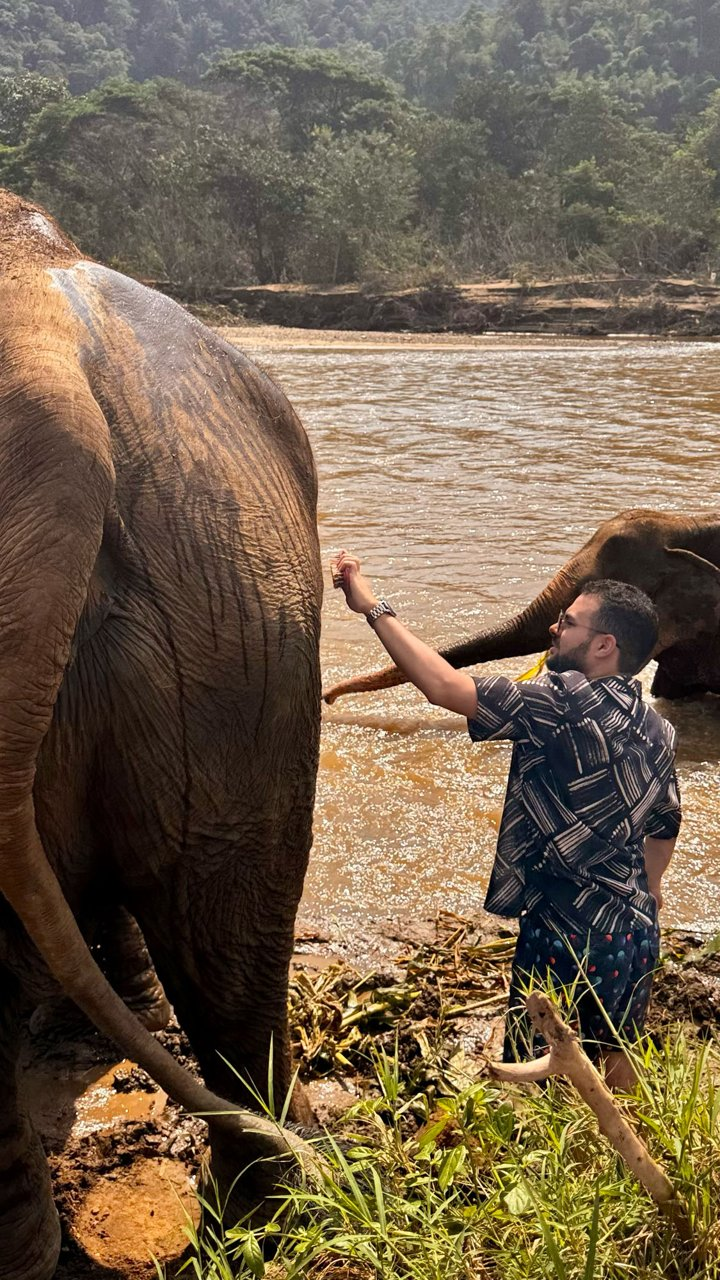
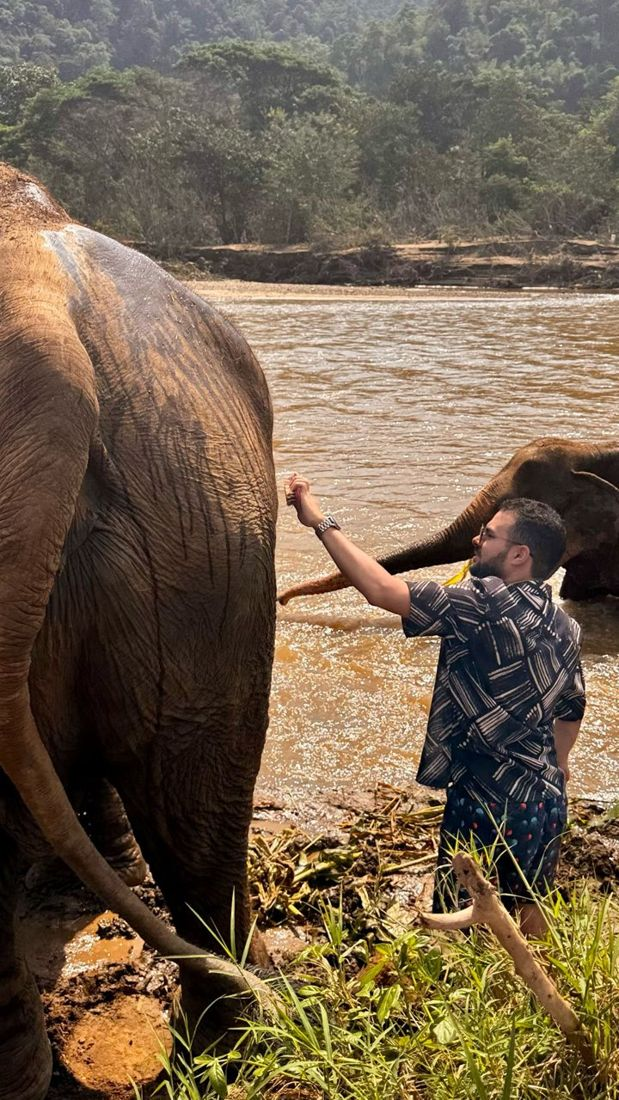
Slim journey images and remove filler trip notes
Performance: recompress images/journeys/* (max 1100px, q80) — cuts the
heaviest photos (elephants 273->177KB, jetski 181->115KB) and shaves
~300KB off the Journeys page; smaller home LCP image too. Home/Work
stay tiny with CLS 0.

Copy: drop the generic placeholder notes I'd written for Avoriaz
(kept its extra photos) and remove the Matterhorn notes expander (it
only restated the teaser). Japan and Thailand notes stay — they map to
real photos. Real notes/images to come from Adir later.

diff --git a/he/journeys.html b/he/journeys.html
@@ -285,16 +285,12 @@
             <div class="meta-line">האלפים הצרפתיים · Portes du Soleil</div>
             <div class="tags"><span>שלג</span><span>סנובורד</span><span>האלפים הצרפתיים</span></div>
             <details class="trip-details">
-              <summary>עוד תמונות ורשמים</summary>
+              <summary>עוד תמונות</summary>
               <div class="trip-details-inner">
                 <div class="trip-gallery-more">
                   <div><img src="/images/journeys/avoriaz-sign.jpg" alt="שלט האייל של אבוריאז בשלג" loading="lazy"></div>
                   <div><img src="/images/journeys/avoriaz-snow.jpg" alt="אדיר ליד שלט אבוריאז בשלג, רכבל מעל" loading="lazy"></div>
                 </div>
-                <ul class="list-clean compact-list">
-                  <li>מסלולים ארוכים לאורך ה־Portes du Soleil, מרכבל לרכבל.</li>
-                  <li>בקרים קרים, אחר־צהריים זהובים, ושלג על הבורד.</li>
-                </ul>
               </div>
             </details>
           </div>
@@ -317,15 +313,6 @@
             <p class="trip-teaser">גלישה על המטרהורן משני הצדדים — צרמט בשווייץ וצ'רוויניה באיטליה — מתחת לאחת הפסגות המזוהות ביותר באלפים.</p>
             <div class="meta-line">צרמט וצ'רוויניה · שווייץ ואיטליה</div>
             <div class="tags"><span>שלג</span><span>אלפים</span><span>מטרהורן</span></div>
-            <details class="trip-details">
-              <summary>רגעים מהדרך</summary>
-              <div class="trip-details-inner">
-                <ul class="list-clean compact-list">
-                  <li>אותה פסגה משתי מדינות — צרמט ביום אחד, צ'רוויניה למחרת.</li>
-                  <li>מסלולים רחבים בצד האיטלקי והנופים הקלאסיים מהצד השווייצרי.</li>
-                </ul>
-              </div>
-            </details>
           </div>
         </article>
 

diff --git a/journeys.html b/journeys.html
@@ -285,16 +285,12 @@
             <div class="meta-line">French Alps · Portes du Soleil</div>
             <div class="tags"><span>Snow</span><span>Snowboard</span><span>French Alps</span></div>
             <details class="trip-details">
-              <summary>More photos &amp; notes</summary>
+              <summary>More photos</summary>
               <div class="trip-details-inner">
                 <div class="trip-gallery-more">
                   <div><img src="/images/journeys/avoriaz-sign.jpg" alt="The Avoriaz deer sign in the snow" loading="lazy"></div>
                   <div><img src="/images/journeys/avoriaz-snow.jpg" alt="Adir beside the Avoriaz sign in the snow, chairlift overhead" loading="lazy"></div>
                 </div>
-                <ul class="list-clean compact-list">
-                  <li>Long groomers across the Portes du Soleil, lift to lift.</li>
-                  <li>Cold mornings, golden afternoons, snow on the board.</li>
-                </ul>
               </div>
             </details>
           </div>
@@ -317,15 +313,6 @@
             <p class="trip-teaser">Riding the Matterhorn from both sides — Zermatt in Switzerland and Cervinia in Italy — under one of the most recognizable peaks in the Alps.</p>
             <div class="meta-line">Zermatt &amp; Cervinia · Switzerland &amp; Italy</div>
             <div class="tags"><span>Snow</span><span>Alps</span><span>Matterhorn</span></div>
-            <details class="trip-details">
-              <summary>Trip notes</summary>
-              <div class="trip-details-inner">
-                <ul class="list-clean compact-list">
-                  <li>The same peak from two countries — Zermatt one day, Cervinia the next.</li>
-                  <li>Wide Italian-side cruisers and the classic Swiss-side views.</li>
-                </ul>
-              </div>
-            </details>
           </div>
         </article>
 
